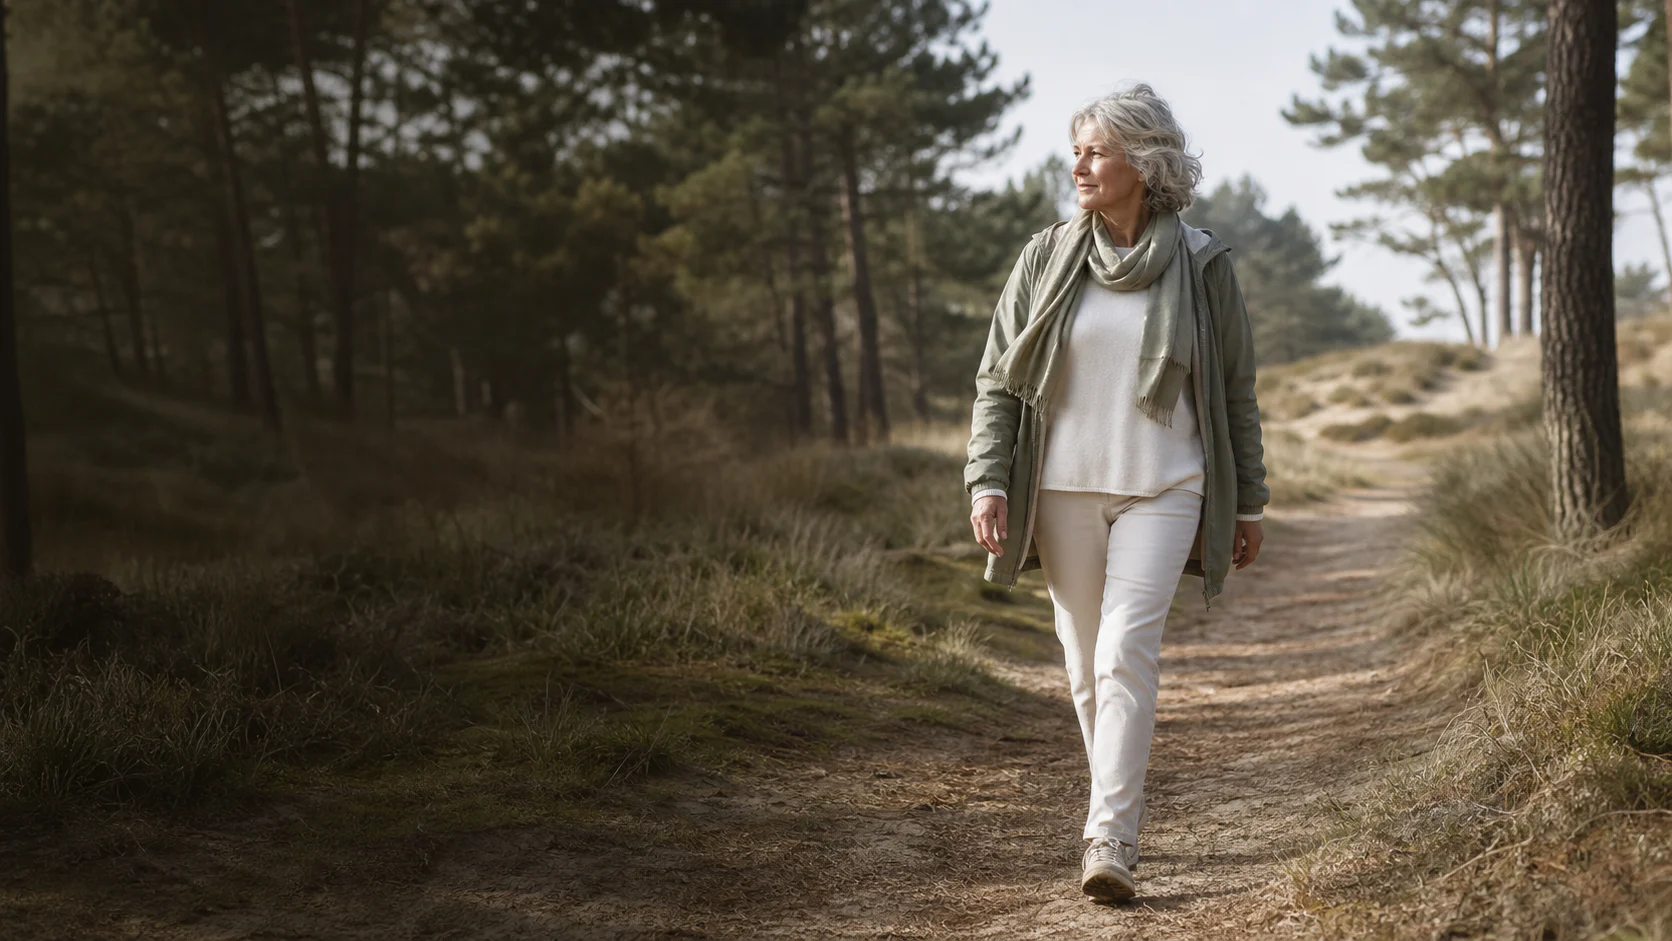
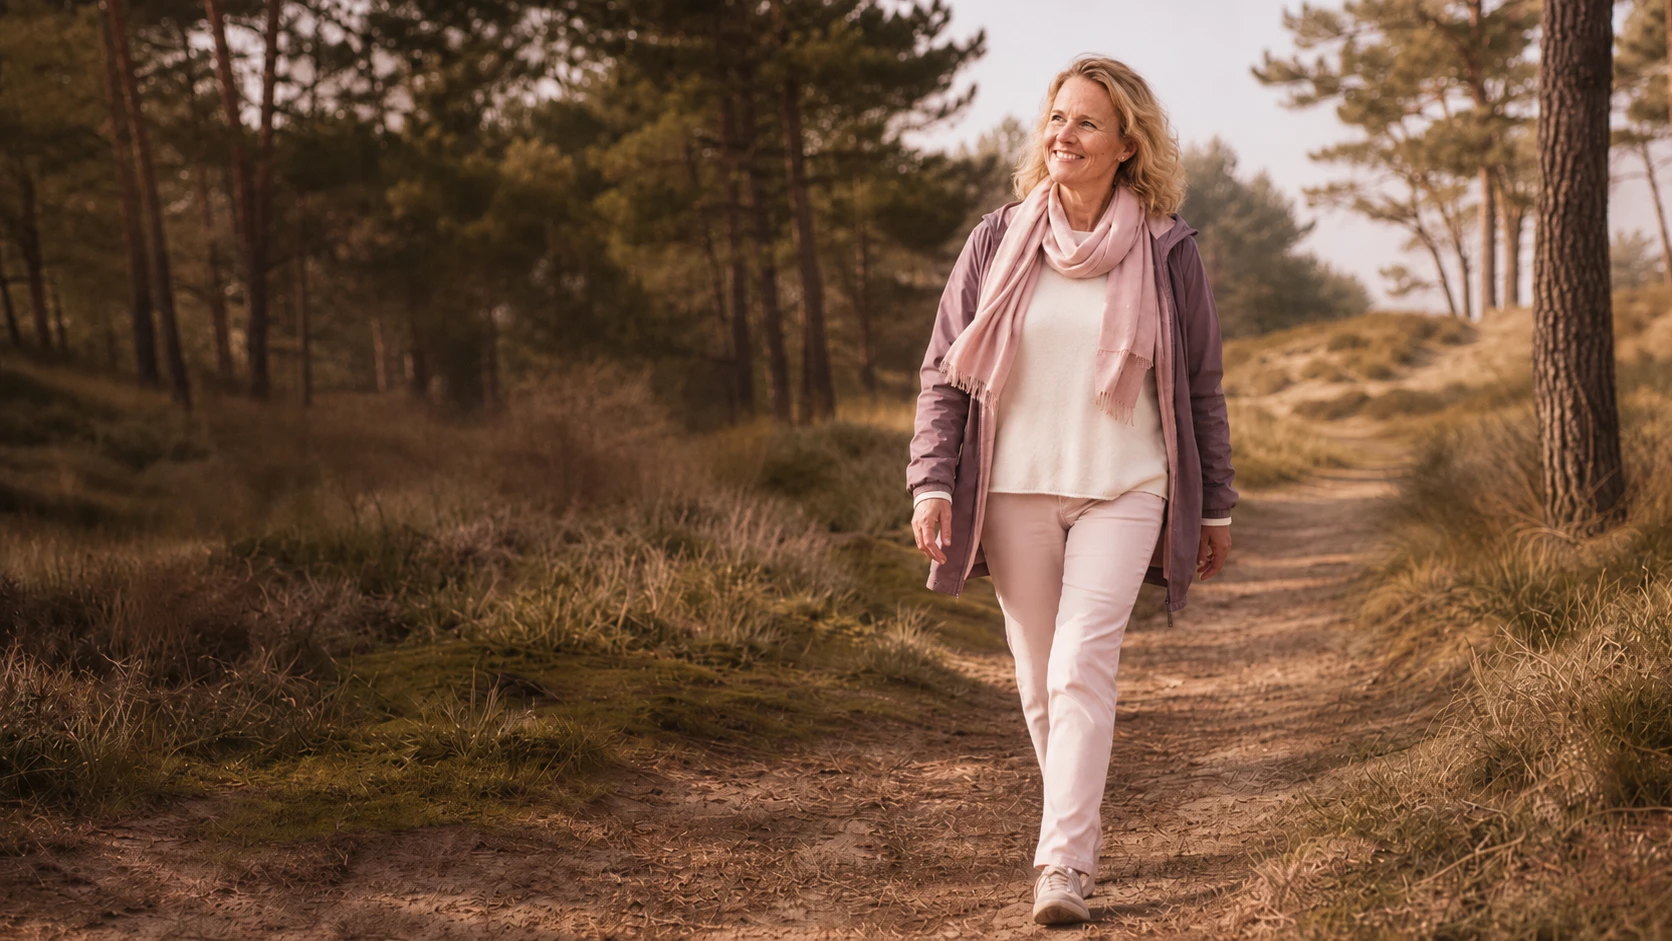
omage changed

diff --git a/app/page.tsx b/app/page.tsx
@@ -275,7 +275,7 @@ export function HomePageContent({ locale }: { locale: Locale }) {
             <Reveal className="hero__visual-wrap" delay={0.08}>
               <div className="hero__visual">
                 <Image
-                  src="/images/generated/home-hero-v2.webp"
+                  src="/images/generated/home-hero-v3.webp"
                   alt="Astrid Sanders wandelt langs een rustig Scandinavisch meer"
                   fill
                   priority
